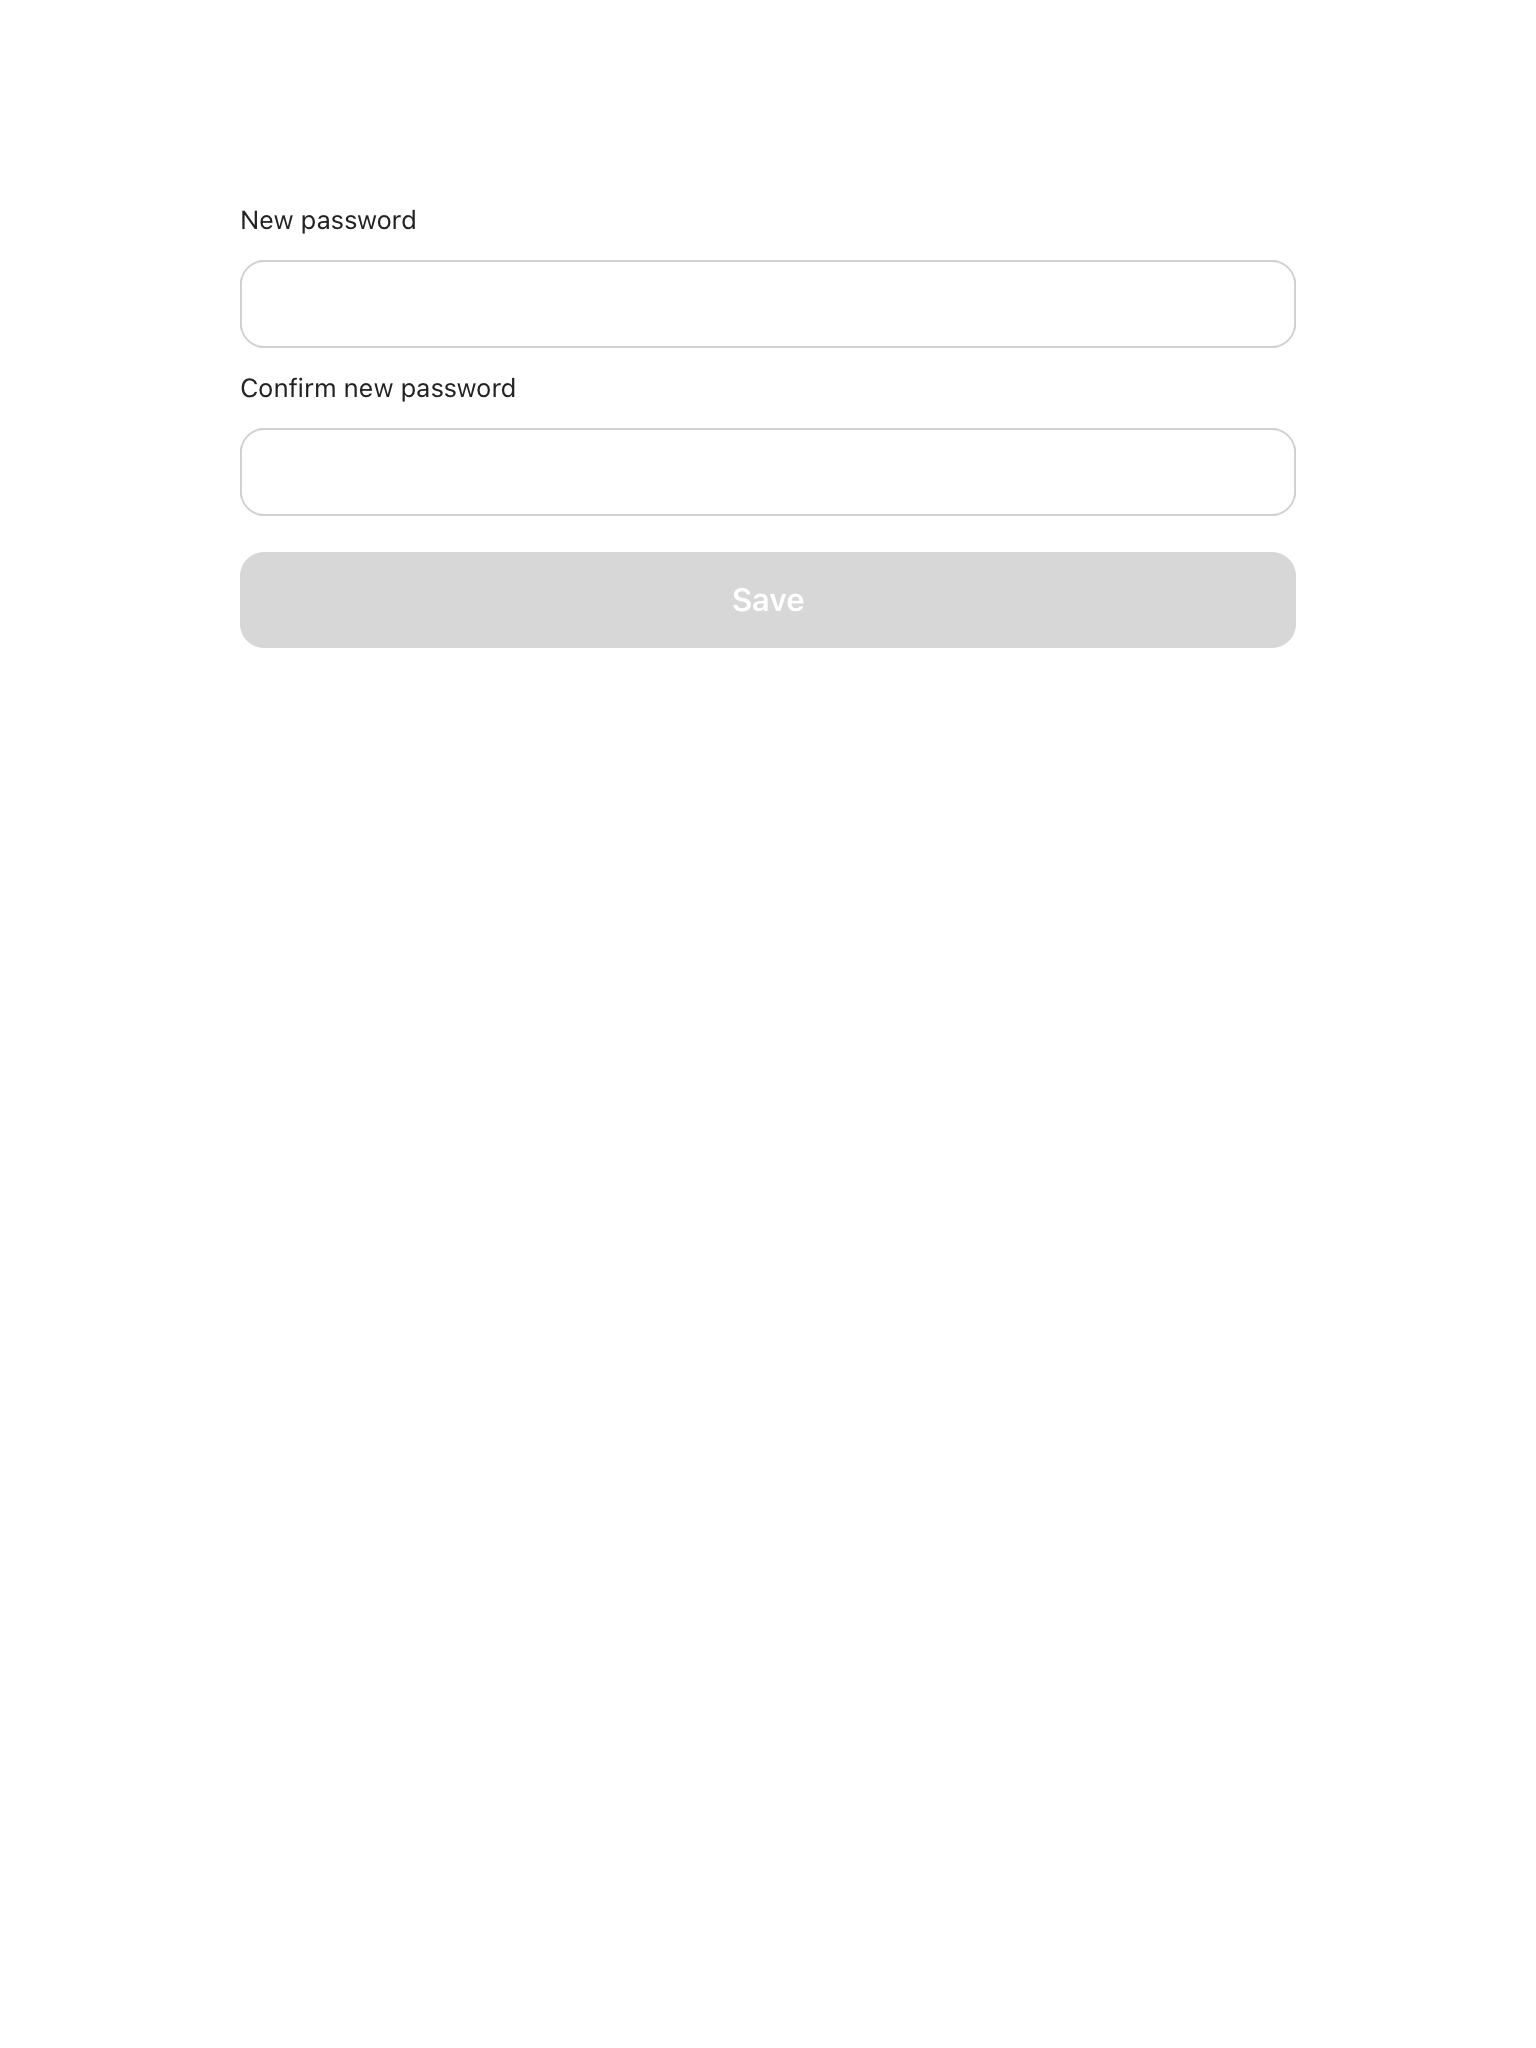
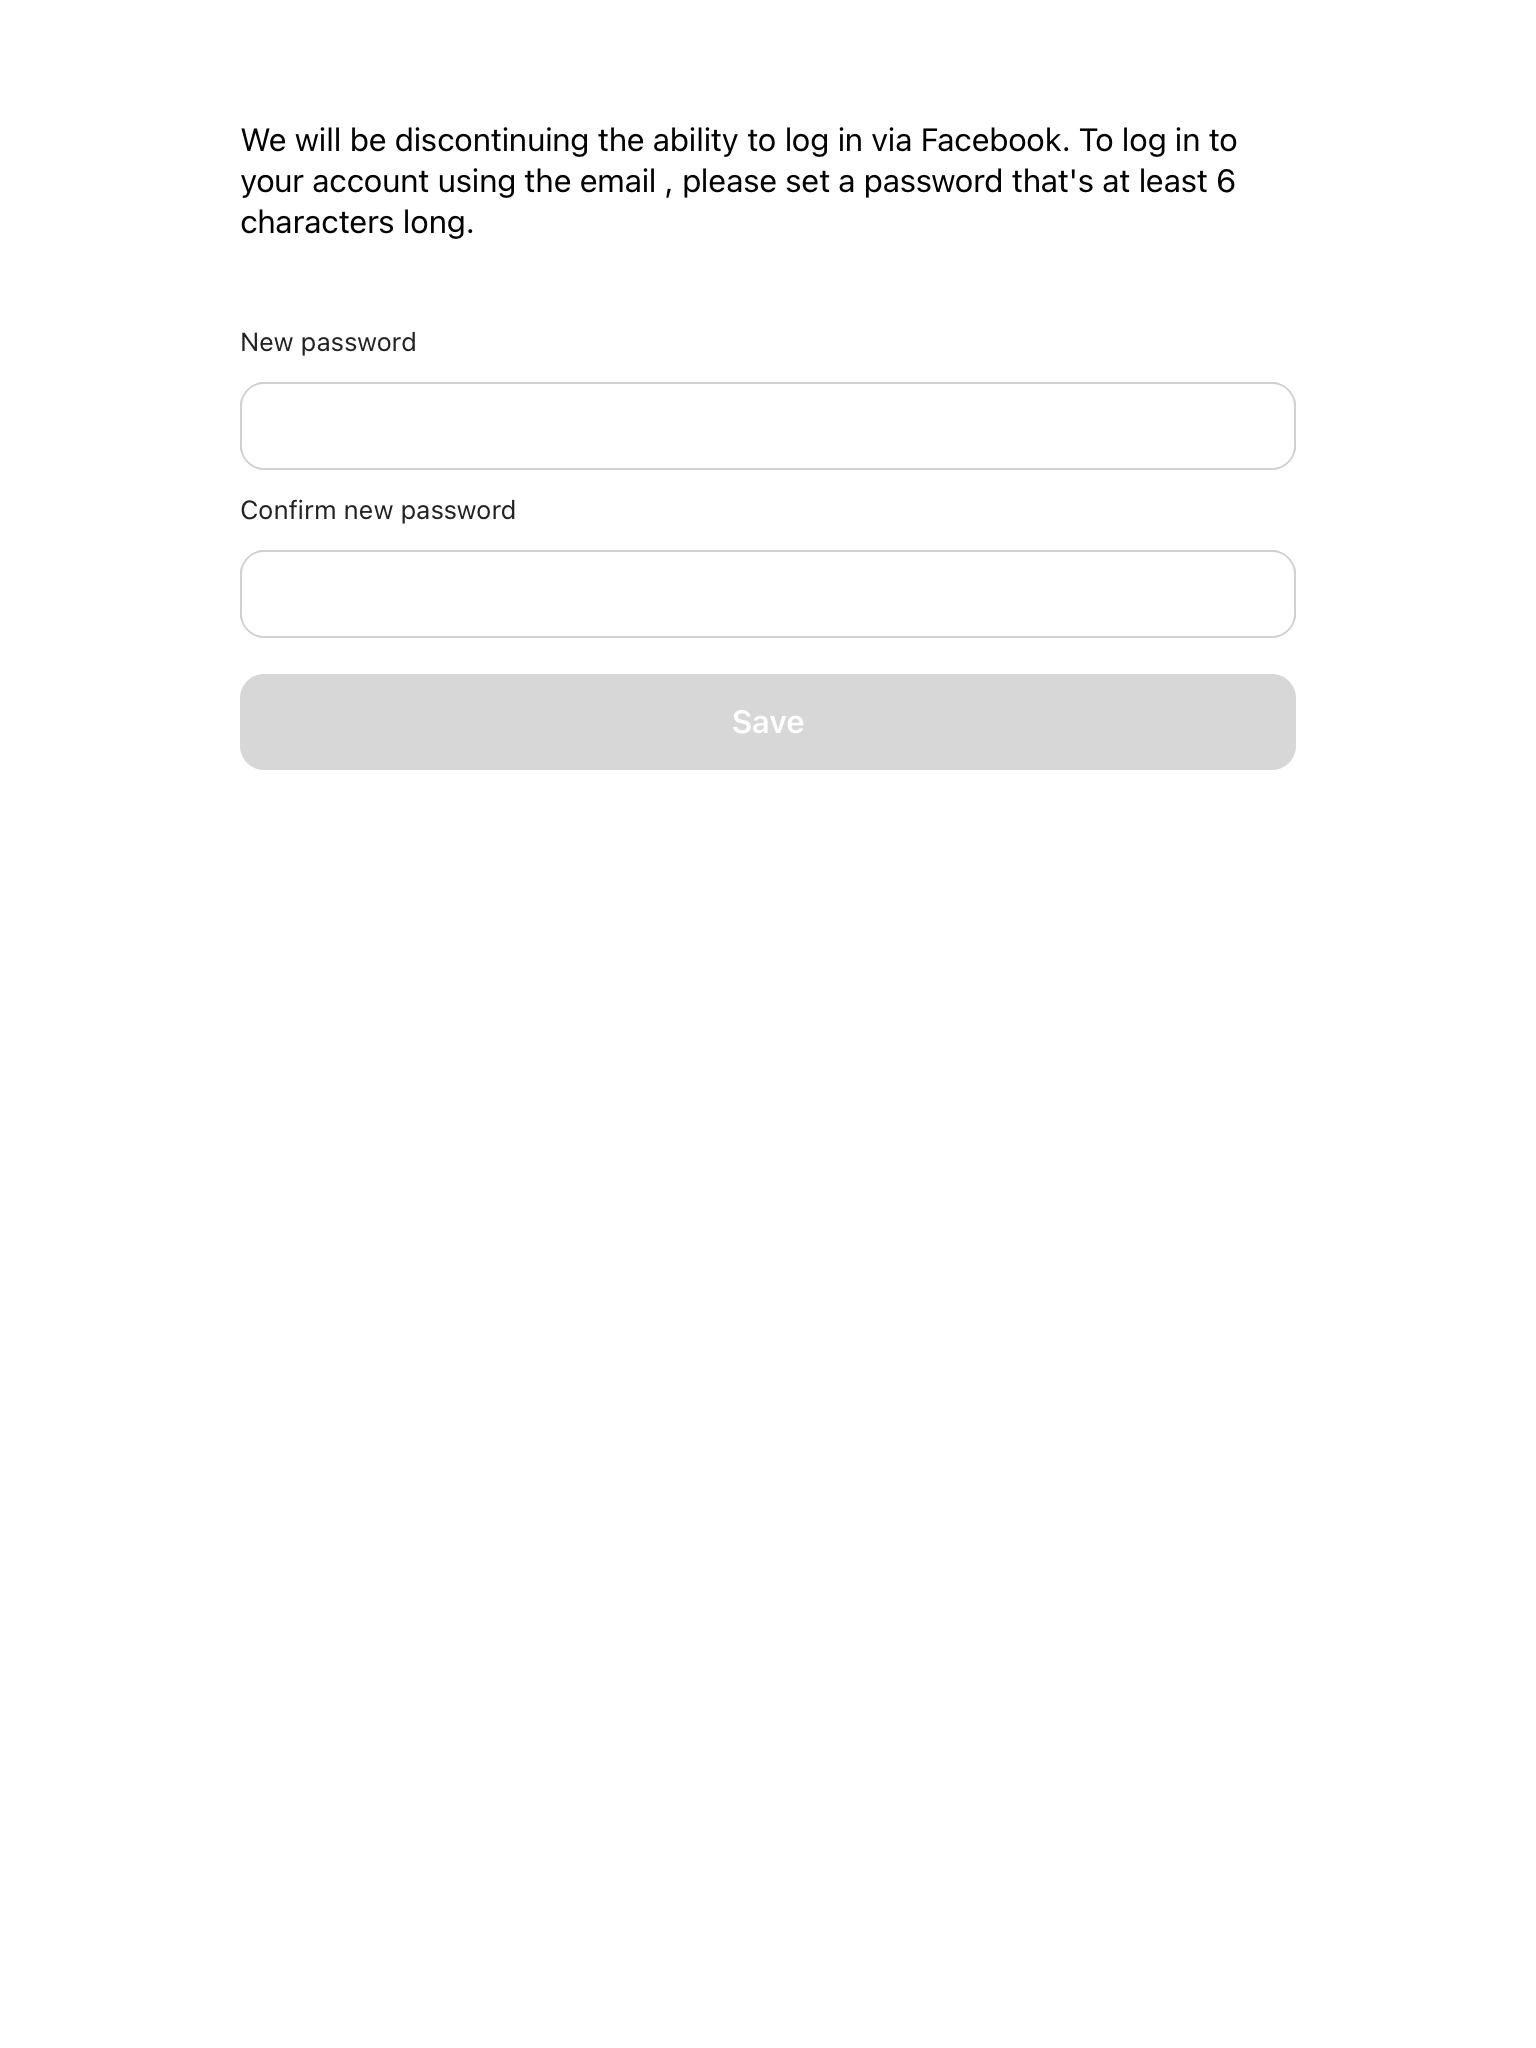
update snapshot tests

Changed region(s): [[0.1562, 0.1562, 0.8438, 0.375], [0.1562, 0.0625, 0.8125, 0.125]]

diff --git a/Library/ViewModels/SetYourPasswordViewModel.swift b/Library/ViewModels/SetYourPasswordViewModel.swift
@@ -43,6 +43,9 @@ public final class SetYourPasswordViewModel: SetYourPasswordViewModelType, SetYo
     self.contextLabelText = fetchUserEmailEvent.values().map {
       Strings.We_will_be_discontinuing_the_ability_to_log_in_via_Facebook(email: $0.me.email ?? "")
     }
+
+    self.contextLabelText = self.viewDidLoadProperty.signal
+      .map { Strings.We_will_be_discontinuing_the_ability_to_log_in_via_Facebook(email: "") }
     self.newPasswordLabel = self.viewDidLoadProperty.signal
       .map { Strings.New_password() }
     self.confirmPasswordLabel = self.viewDidLoadProperty.signal

diff --git a/Kickstarter-iOS/Features/SetYourPassword/Controller/SetYourPasswordViewControllerTests.swift b/Kickstarter-iOS/Features/SetYourPassword/Controller/SetYourPasswordViewControllerTests.swift
@@ -7,7 +7,6 @@ import XCTest
 final class SetYourPasswordViewControllerTests: TestCase {
   override func setUp() {
     super.setUp()
-
     AppEnvironment.pushEnvironment(mainBundle: Bundle.framework)
     UIView.setAnimationsEnabled(false)
   }
